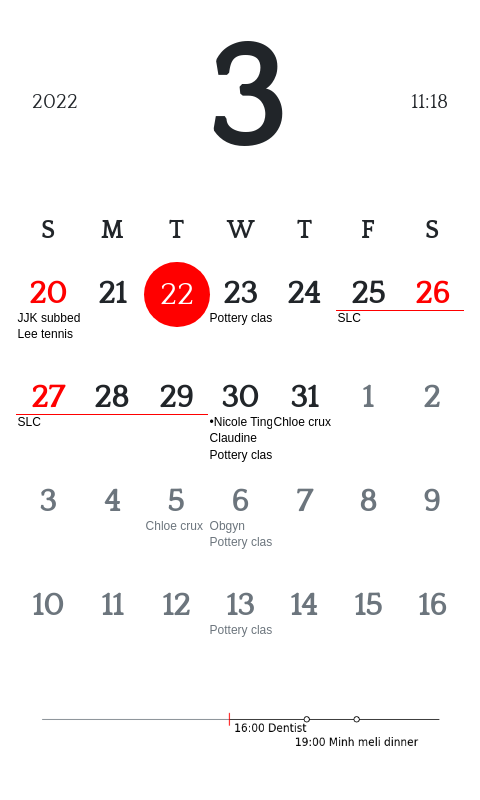
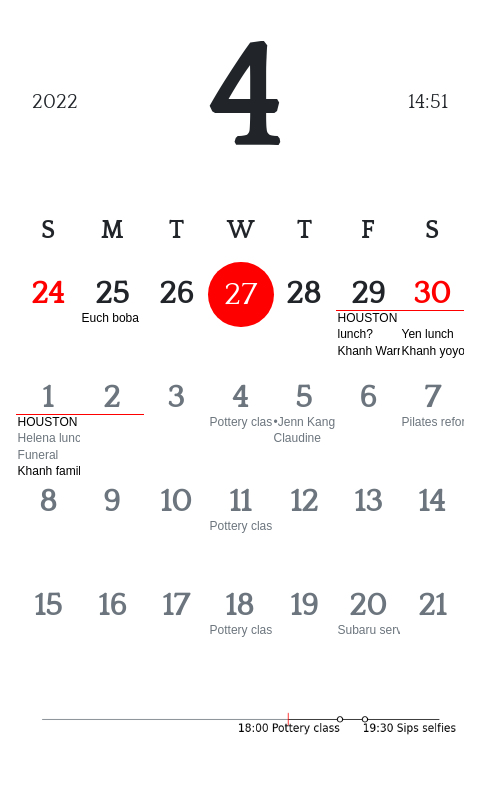
code now runs more consistenly on pi0, remove loop

diff --git a/render/calendar.html b/render/calendar.html
@@ -12,8 +12,8 @@
         <div class="top-header align-items-center text-center"
              style="display:flex;justify-content:space-between;">
             <div class="time-info">2022</div>
-            <h3 class="month font-weight-bold mb-0 text-uppercase">3</h3>
-            <div class="time-info">11:18</div>
+            <h3 class="month font-weight-bold mb-0 text-uppercase">4</h3>
+            <div class="time-info">14:51</div>
         </div>
         <!-- Days of week -->
         <ol class="day-names list-unstyled text-center"><li class="font-weight-bold text-uppercase">S</li>
@@ -25,58 +25,49 @@
 <li class="font-weight-bold text-uppercase">S</li>
 </ol>
         <!-- Calendar and events -->
-        <ol class="days list-unstyled"><li><div class="date" style="color:red;">20</div>
-<div class="event">JJK subbed</div>
-<div class="event">Lee tennis</div>
-</li>
-<li><div class="date">21</div>
-</li>
-<li><div class="datecircle">22</div>
-</li>
-<li><div class="date">23</div>
-<div class="event">Pottery class</div>
-</li>
-<li><div class="date">24</div>
+        <ol class="days list-unstyled"><li><div class="date" style="color:red;">24</div>
 </li>
 <li><div class="date">25</div>
-<div class="event" style="border-top:1px solid red;">SLC</div>
+<div class="event">Euch boba</div>
 </li>
-<li><div class="date" style="color:red;">26</div>
-<div class="event text-hidden" style="border-top:1px solid red;">SLC</div>
+<li><div class="date">26</div>
 </li>
-<li><div class="date" style="color:red;">27</div>
-<div class="event" style="border-top:1px solid red;">SLC</div>
+<li><div class="datecircle">27</div>
 </li>
 <li><div class="date">28</div>
-<div class="event text-hidden" style="border-top:1px solid red;">SLC</div>
 </li>
 <li><div class="date">29</div>
-<div class="event text-hidden" style="border-top:1px solid red;">SLC</div>
+<div class="event" style="border-top:1px solid red;">HOUSTON</div>
+<div class="event">lunch?</div>
+<div class="event">Khanh Warren crawfish</div>
 </li>
-<li><div class="date">30</div>
-<div class="event">•Nicole Ting</div>
-<div class="event">Claudine</div>
-<div class="event">Pottery class</div>
-</li>
-<li><div class="date">31</div>
-<div class="event">Chloe crux</div>
+<li><div class="date" style="color:red;">30</div>
+<div class="event text-hidden" style="border-top:1px solid red;">HOUSTON</div>
+<div class="event">Yen lunch</div>
+<div class="event">Khanh yoyo</div>
 </li>
 <li><div class="date text-muted">1</div>
+<div class="event" style="border-top:1px solid red;">HOUSTON</div>
+<div class="event text-muted">Helena lunch</div>
+<div class="event text-muted">Funeral</div>
+<div class="event">Khanh family dinner</div>
 </li>
 <li><div class="date text-muted">2</div>
+<div class="event text-hidden" style="border-top:1px solid red;">HOUSTON</div>
 </li>
 <li><div class="date text-muted">3</div>
 </li>
 <li><div class="date text-muted">4</div>
-</li>
-<li><div class="date text-muted">5</div>
-<div class="event text-muted">Chloe crux</div>
-</li>
-<li><div class="date text-muted">6</div>
-<div class="event text-muted">Obgyn</div>
 <div class="event text-muted">Pottery class</div>
 </li>
+<li><div class="date text-muted">5</div>
+<div class="event text-muted">•Jenn Kang</div>
+<div class="event text-muted">Claudine</div>
+</li>
+<li><div class="date text-muted">6</div>
+</li>
 <li><div class="date text-muted">7</div>
+<div class="event text-muted">Pilates reformer</div>
 </li>
 <li><div class="date text-muted">8</div>
 </li>
@@ -85,17 +76,29 @@
 <li><div class="date text-muted">10</div>
 </li>
 <li><div class="date text-muted">11</div>
+<div class="event text-muted">Pottery class</div>
 </li>
 <li><div class="date text-muted">12</div>
 </li>
 <li><div class="date text-muted">13</div>
-<div class="event text-muted">Pottery class</div>
 </li>
 <li><div class="date text-muted">14</div>
 </li>
 <li><div class="date text-muted">15</div>
 </li>
 <li><div class="date text-muted">16</div>
+</li>
+<li><div class="date text-muted">17</div>
+</li>
+<li><div class="date text-muted">18</div>
+<div class="event text-muted">Pottery class</div>
+</li>
+<li><div class="date text-muted">19</div>
+</li>
+<li><div class="date text-muted">20</div>
+<div class="event text-muted">Subaru service</div>
+</li>
+<li><div class="date text-muted">21</div>
 </li>
 </ol>
         <div style="height:210px;margin-top:-5rem;position:absolute;">

diff --git a/maginkcal.py b/maginkcal.py
@@ -127,8 +127,11 @@ def main():
     logger.info("Completed daily calendar update")
 
 
-start_time = time.time()
-while True:
-    if __name__ == "__main__":
-        main()
-        time.sleep(60.0 - ((time.time() - start_time) % 60.0))
+if __name__ == "__main__":
+    main()
+
+# start_time = time.time()
+# while True:
+#     if __name__ == "__main__":
+#         main()
+#         time.sleep(60.0 - ((time.time() - start_time) % 60.0))

diff --git a/render/render.py b/render/render.py
@@ -60,6 +60,7 @@ class RenderHelper:
         opts.add_argument("--no-sandbox")
         opts.add_argument('--disable-dev-shm-usage')
         opts.add_argument("--hide-scrollbars")
+        opts.add_argument("--disable-gpu")
         opts.add_argument('--force-device-scale-factor=1')
         driver = webdriver.Chrome(options=opts)
         self.set_viewport_size(driver)
